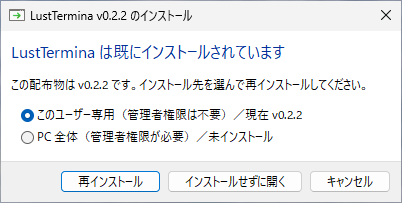
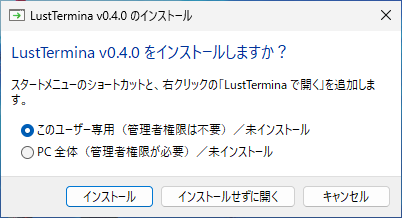
README: document v0.4.0 CLI (ltm/--tab/--help/PATH), refresh installer shot

diff --git a/README.md b/README.md
@@ -11,6 +11,7 @@
 - **プリセット（型）** — よく使うタブ構成（名前・シェル・作業フォルダ・色・起動コマンド）を「プリセット」として保存・複製できる。起動タブや新規タブ（＋）から選ぶと、その型からタブを実体化する。名前は一意（重複・空は警告表示）。
 - **起動タブ** — 起動時に開くタブを並べておくと、次回から自動でその環境が開く。各行は「マニュアル」（その場で定義）／「プリセット参照」を切り替えられ、参照が解決できないときはタブ名に警告印（⚠）を付けて知らせる。
 - **Explorer から直接開く** — フォルダ（またはフォルダ内の空白）を右クリック →「LustTermina で開く」で、そのフォルダをタブで開ける。既に起動していれば新しいタブとして追加される。インストール時に登録される。
+- **コマンドラインで操作** — `ltm --tab --cwd <dir> --cmd <コマンド>` で、起動済みの窓に外から新しいタブを追加できる（インストール時に PATH 登録＋短い別名 `ltm`）。スクリプトやツールから作業環境を組み立てるのに使える。詳しくは[コマンドラインから使う](#コマンドラインから使う)。
 - **スクリプトを右クリックで実行** — `.ps1` / `.bat` / `.cmd` を右クリック →「LustTermina で実行」で、そのファイルのあるフォルダを作業フォルダにして実行（実行後もシェルは開いたまま出力を確認できる）。`.ps1` は「プログラムから開く」の一覧にも LustTermina が並ぶ（候補に出るだけで、既定のアプリは変更しない）。
 - **日本語入力・表示に対応** — IME での日本語入力、日本語の表示どちらも OK。
 - **マウスで選択 → コピー** — ドラッグで範囲選択して `Ctrl+C` でコピー、`Ctrl+V` で貼り付け。
@@ -50,9 +51,9 @@
 
 <img src="assets/screenshots/system-tab.png" width="720" alt="システムタブ（バージョン・データ・アンインストール）">
 
-**インストーラ（更新対応）** — 配布 exe を起動すると導入先（このユーザー専用／PC 全体）を選べます。導入済みなら現在の版を検出して「更新／再インストール」を出し分けます。
+**インストーラ** — 配布 exe を起動すると、導入先（このユーザー専用／PC 全体）を選んでインストールできます。導入済みの場合は現在の版を検出して「更新／再インストール」を出し分けます。
 
-<img src="assets/screenshots/installer.png" width="520" alt="更新対応インストーラのダイアログ">
+<img src="assets/screenshots/installer.png" width="520" alt="インストーラのダイアログ">
 
 ## 動作環境
 
@@ -157,6 +158,36 @@ exe は**そのままでも起動できます**（単一ファイル・インス
 - Windows の **「アプリと機能」**
 
 いずれも本体・ショートカット・右クリック項目をまとめて削除します。設定データ（`%APPDATA%\LustTermina`）も消すかは、アンインストール時のチェックボックスで選べます（既定は残す）。「システム」タブからは、データフォルダを開く／設定を初期化することもできます。
+
+## コマンドラインから使う
+
+インストールすると導入先が **PATH に登録**され、短い別名 **`ltm`** でどこからでも呼べます（未インストールでも exe を直接叩けば同じ挙動）。
+
+**外からタブを開く** — 起動済みの LustTermina があれば、その窓に新しいタブを足します（無ければ新しい窓で開く）：
+
+```powershell
+ltm --tab --cwd "C:\work\proj" --name proj --cmd "claude"
+```
+
+| オプション | 意味 |
+|---|---|
+| `--cwd <dir>` | 作業フォルダ |
+| `--shell <short>` | シェル（`pwsh` / `powershell` / `cmd` など。省略時は既定） |
+| `--name <名前>` | タブ名 |
+| `--cmd <コマンド行>` | 起動後に投入するコマンド。複数回指定でき、順に実行される |
+| `--new-window` | 既存の窓に合流せず、新しい窓で開く |
+
+`--cmd` の値は「直後の 1 引数を丸ごと 1 行のコマンド」として扱い、中身は解釈しません。引用符で括れば、空白や入れ子のクォートもそのまま届きます。投入は「直前の出力が静まってから次を送る」方式なので、`claude` のような対話型 TUI にも順に打ち込めます（→[起動コマンドの投入ペース](#起動コマンドの投入ペース上級者向け)）。
+
+**そのほかの入口**：
+
+- `ltm --cwd <dir>` — そのフォルダでタブを開く（右クリック「LustTermina で開く」と同じ）
+- `ltm --run <script>` — スクリプトをそのフォルダで実行
+- `ltm --help` — 使い方を表示（シェルから呼べばそのシェル内に、ダブルクリック等ではダイアログで）
+
+<img src="assets/screenshots/cli-help.png" width="620" alt="ltm --help をシェル内に表示">
+
+**入れ子タブの深さ** — `--tab` で開いたタブには環境変数 `LUSTTERMINA_TAB_DEPTH` が入ります（直接開いたタブ＝無し、その中から開いた子＝`1`、孫＝`2`…）。タブから更にタブを開くような連鎖でも、自分が何代目かを見分けられます。
 
 ## 既知の制限（これから）
 
